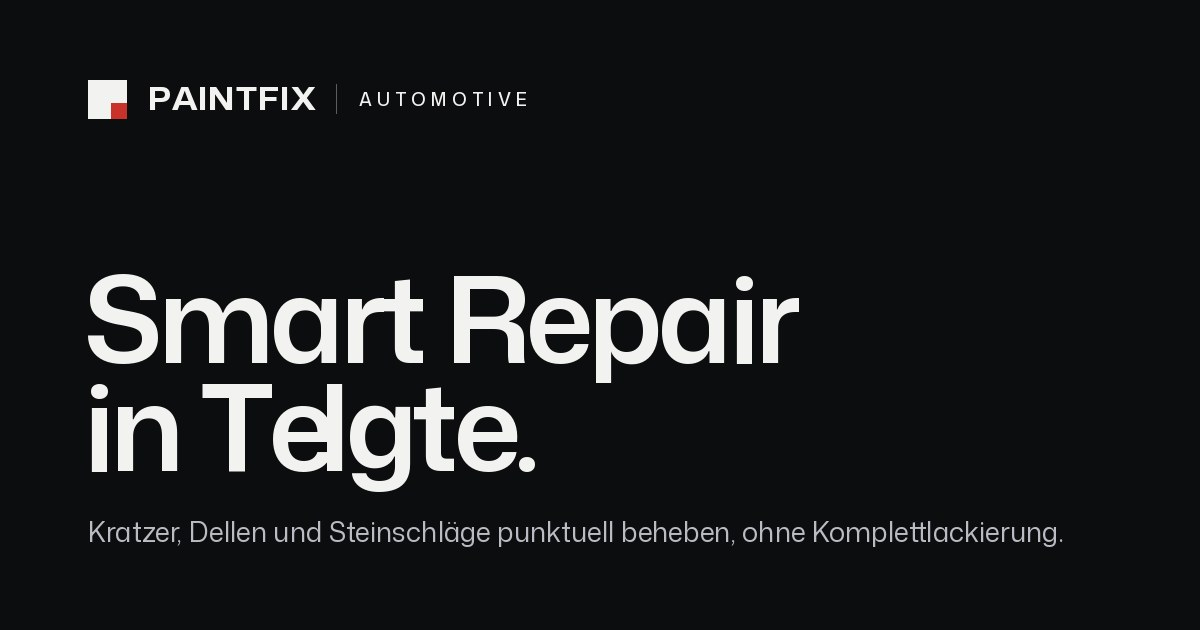
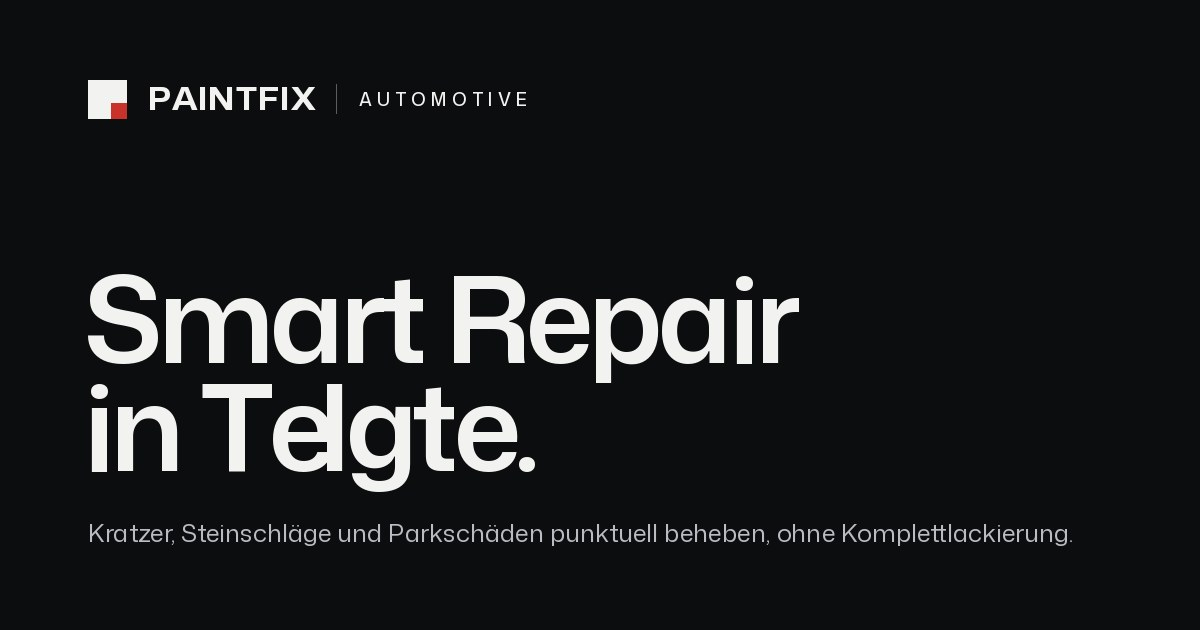
Use PaintFix's own service descriptions (24.11.2026)
- desc of all six services verbatim from PaintFix; the confirmed notes on
  sealing (extra cost) stay. "Included" lists rebuilt from the same text.
- Removed claims the descriptions do not cover: rim repair under Smart
  Repair, two-bucket wash, wheel arches, odour neutralisation, boot,
  clay bar, paint thickness measurement, masking, two ceramic coats,
  infrared curing, exterior detailing included in ceramic. Lackkorrektur
  now "reduces" instead of "removes"; ceramic lifespan 1, 2 or 3 years
  depending on the product, paint correction as needed.
- Service page drafts, Smart Repair focus text and its share image
  follow the same wording.

Claude-Session: https://claude.ai/code/session_01LGKKViHyALtNtq41SnGiB1

Changed region(s): [[0.0617, 0.8143, 0.8942, 0.8746]]

diff --git a/content/leistungen.ts b/content/leistungen.ts
@@ -17,10 +17,11 @@ import { eur } from "@/lib/format";
  * Preise und Dauer kommen aus fahrzeug.json (services, inspect), damit jeder Wert nur einmal
  * existiert.
  *
- * PLATZHALTER: Alle Texte dieser Datei sind Entwürfe von Chatifa auf Grundlage der bestehenden
- * Leistungstexte, bis PaintFix die Beschreibungen je Leistung schickt und freigibt. Sie enthalten
- * nur Angaben, die bereits auf der Website stehen; neue Fakten (Einzugsgebiet, Garantien,
- * Zertifikate) kommen erst nach Bestätigung hinzu.
+ * Fakten: Die Leistungsbeschreibungen hat PaintFix am 24.11.2026 geschickt (wörtlich als `desc` in
+ * fahrzeug.json). Die Texte dieser Datei (Einleitung, Anlässe, Ablauf, FAQ) sind Entwürfe von
+ * Chatifa auf dieser Grundlage, bis PaintFix sie freigibt. Sie enthalten keine Angaben über die
+ * Beschreibungen hinaus; neue Fakten (Einzugsgebiet, Garantien, Zertifikate, Lackschichtdicken-
+ * messung) kommen erst nach Bestätigung hinzu.
  */
 
 export type CarPageSlug =
@@ -86,10 +87,10 @@ export const carServicePages: ReadonlyArray<CarServicePage> = [
     name: "Smart Repair",
     metaTitle: "Smart Repair in Telgte bei Münster",
     metaDescription:
-      "Smart Repair in Telgte bei Münster: Kratzer, kleine Dellen, Steinschläge und Bordsteinschäden an Felgen punktuell beheben, ohne Komplettlackierung. Festpreis nach kostenloser Begutachtung.",
+      "Smart Repair in Telgte bei Münster: Kratzer, Steinschläge, kleinere Lackschäden und Parkschäden gezielt reparieren, ohne Komplettlackierung. Festpreis nach kostenloser Begutachtung.",
     h1: "Smart Repair in Telgte.",
     intro:
-      "Ein Kratzer in der Tür, eine Delle vom Parkplatz, ein Steinschlag auf der Haube: Kleine Schäden reparieren wir dort, wo sie sind, statt ganze Bauteile neu zu lackieren. Das spart Zeit und Kosten, und Ihr Fahrzeug behält so viel Originallack wie möglich.",
+      "Ein Kratzer in der Tür, ein Parkschaden an der Stoßstange, ein Steinschlag auf der Haube: Kleine Schäden reparieren wir dort, wo sie sind, statt ganze Bauteile neu zu lackieren. Das spart Zeit und Kosten, und Ihr Fahrzeug behält so viel Originallack wie möglich.",
     offers: ["smart-repair"],
     offerTitle: "Umfang und Preis",
     reasons: {
@@ -100,16 +101,16 @@ export const carServicePages: ReadonlyArray<CarServicePage> = [
           d: "Einzelne Kratzer im Lack, die mit einer Politur allein nicht verschwinden.",
         },
         {
-          t: "Kleine Dellen",
-          d: "Parkrempler und Dellen, bei denen der Lack nicht großflächig beschädigt ist.",
+          t: "Parkschäden",
+          d: "Schrammen und kleine Beschädigungen vom Parkplatz, etwa an Stoßstange oder Tür.",
         },
         {
           t: "Steinschläge",
           d: "Abplatzer an Haube und Front, bevor Feuchtigkeit darunter gelangt.",
         },
         {
-          t: "Bordsteinschäden an Felgen",
-          d: "Schrammen an der Felge, die bei jedem Blick auf das Rad auffallen.",
+          t: "Kleinere Lackschäden",
+          d: "Macken und Abplatzer, bei denen eine Lackierung des ganzen Bauteils übertrieben wäre.",
         },
       ],
     },
@@ -127,7 +128,7 @@ export const carServicePages: ReadonlyArray<CarServicePage> = [
         festpreis,
         {
           title: "Reparatur",
-          text: "Wir bearbeiten nur die beschädigte Stelle und passen den Farbton an den Originallack an.",
+          text: "Nur die beschädigte Stelle: fachgerecht schleifen, spachteln, grundieren, lackieren und anschließend polieren.",
         },
         {
           title: "Übergabe",
@@ -151,8 +152,8 @@ export const carServicePages: ReadonlyArray<CarServicePage> = [
           a: "Das hängt vom Umfang ab. Termin und Dauer nennen wir Ihnen zusammen mit dem Festpreis.",
         },
         {
-          q: "Reparieren Sie auch Felgen?",
-          a: "Ja, Bordsteinschäden an Felgen gehören zu Smart Repair.",
+          q: "Wie wird repariert?",
+          a: "Die betroffene Stelle wird fachgerecht geschliffen, gespachtelt, grundiert, lackiert und anschließend poliert. Der Rest des Bauteils bleibt im Originallack.",
         },
         {
           q: "Lohnt sich Smart Repair vor der Leasingrückgabe?",
@@ -168,10 +169,10 @@ export const carServicePages: ReadonlyArray<CarServicePage> = [
     focus: "politur",
     name: "Lackkorrektur",
     metaTitle: "Lackkorrektur in Telgte bei Münster",
-    metaDescription: `Maschinelle Lackkorrektur in Telgte bei Münster: entfernt Waschkratzer, Hologramme und matte Stellen. ${politur.dur.replace(/^ca\./, "Etwa")}, ab ${eur(politur.p[0])} Endpreis. Den Festpreis nennen wir nach einer kostenlosen Begutachtung.`,
+    metaDescription: `Lackkorrektur in Telgte bei Münster: ein-, zwei- oder dreistufige Politur gegen Kratzer, Hologramme, Waschspuren und matte Stellen, für Tiefenglanz und Farbtiefe. ${politur.dur.replace(/^ca\./, "Etwa")}, ab ${eur(politur.p[0])} Endpreis. Den Festpreis nennen wir nach einer kostenlosen Begutachtung.`,
     h1: "Lack\u00ADkorrektur in Telgte.",
     intro:
-      "Waschanlagen, falsche Tücher und Jahre auf der Straße hinterlassen feine Kratzer, die in der Sonne als Kreise und Schlieren sichtbar werden. Bei der Lackkorrektur reinigen wir den Lack gründlich und polieren ihn danach maschinell. So verschwinden die Kratzer, und der Lack bekommt seine Tiefe zurück.",
+      "Waschanlagen, falsche Tücher und Jahre auf der Straße hinterlassen feine Kratzer, die in der Sonne als Kreise und Schlieren sichtbar werden. Bei der Lackkorrektur polieren wir den Lack je nach Zustand ein-, zwei- oder dreistufig. So werden Kratzer, Hologramme und Waschspuren deutlich reduziert, und der Lack bekommt Tiefenglanz und Farbtiefe zurück.",
     offers: ["politur"],
     offerTitle: "Umfang und Preis",
     reasons: {
@@ -204,12 +205,12 @@ export const carServicePages: ReadonlyArray<CarServicePage> = [
       items: [
         {
           title: "Begutachtung",
-          text: "Wir sehen uns den Lack unter Licht an, messen die Lackschichtdicke und sagen Ihnen, was die Politur erreichen kann. Kostenlos.",
+          text: "Wir sehen uns den Lack unter Licht an und sagen Ihnen, wie viele Stufen er braucht und was die Politur erreichen kann. Kostenlos.",
         },
         festpreis,
         {
           title: "Reinigung und Politur",
-          text: "Wäsche und Dekontamination mit Reinigungsknete, Kunststoffe und Gummis abkleben, dann die maschinelle Politur.",
+          text: "Gründliche Reinigung, dann die ein-, zwei- oder dreistufige Politur, je nach Zustand des Lacks.",
         },
         {
           title: "Übergabe",
@@ -222,19 +223,19 @@ export const carServicePages: ReadonlyArray<CarServicePage> = [
       items: [
         {
           q: "Schadet eine Politur dem Lack?",
-          a: "Beim Polieren wird eine sehr dünne Schicht Klarlack abgetragen. Deshalb messen wir vorher die Lackschichtdicke und polieren nur so viel wie nötig.",
+          a: "Beim Polieren wird eine sehr dünne Schicht Klarlack abgetragen. Deshalb wählen wir die Stufe nach dem Zustand des Lacks und polieren nur so viel wie nötig.",
         },
         {
           q: "Was ist der Unterschied zwischen ein- und mehrstufiger Korrektur?",
-          a: "Die einstufige Maschinenpolitur ist im Preis enthalten und entfernt die meisten Waschkratzer und Hologramme. Bei tieferen Spuren polieren wir in mehreren Durchgängen. Das bieten wir auf Anfrage an.",
+          a: "Die einstufige Politur ist im Grundpreis enthalten und reduziert die meisten Waschspuren und Hologramme. Bei tieferen Kratzern polieren wir zwei- oder dreistufig. Das bieten wir auf Anfrage an.",
         },
         {
           q: "Brauche ich danach eine Versiegelung?",
-          a: "Nicht zwingend, aber sie schützt das Ergebnis länger vor neuen Kratzern und Umwelteinflüssen. Die Versiegelung ist nicht im Preis enthalten und kostet extra. Den längsten Schutz bietet die Keramikversiegelung, die eine Lackkorrektur bereits enthält.",
+          a: "Nicht zwingend, aber sie schützt das Ergebnis länger vor neuen Kratzern und Umwelteinflüssen. Die Versiegelung ist nicht im Preis enthalten und kostet extra. Den längsten Schutz bietet die Keramikversiegelung, zu der eine Lackkorrektur nach Bedarf gehört.",
         },
         {
           q: "Wie lange hält das Ergebnis?",
-          a: "Auspolierte Kratzer sind weg. Wie lange der Lack so bleibt, hängt von der Pflege ab: Jede Fahrt durch die Waschanlage kann neue Kratzer verursachen. Eine Handwäsche und eine Versiegelung halten das Ergebnis am längsten.",
+          a: "Was die Politur reduziert hat, kommt nicht von selbst zurück. Wie lange der Lack so bleibt, hängt von der Pflege ab: Jede Fahrt durch die Waschanlage kann neue Kratzer verursachen. Eine Handwäsche und eine Versiegelung halten das Ergebnis am längsten.",
         },
         faqAb,
       ],
@@ -280,7 +281,7 @@ export const carServicePages: ReadonlyArray<CarServicePage> = [
       items: [
         {
           title: "Begutachtung",
-          text: "Wir prüfen Lack, Felgen und Innenraum vor Ihrem Rückgabetermin. Kostenlos.",
+          text: "Wir prüfen Ihr Fahrzeug vor dem Rückgabetermin auf Kratzer, Dellen, Lackschäden und Gebrauchsspuren. Kostenlos.",
         },
         {
           title: "Festpreis",
@@ -343,7 +344,7 @@ export const carServicePages: ReadonlyArray<CarServicePage> = [
         },
         {
           t: "Innenaufbereitung",
-          d: "Wenn Polster, Kunststoffe und Kofferraum gründlich gereinigt und Gerüche beseitigt werden sollen.",
+          d: "Wenn Polster, Teppiche, Leder und Kunststoffe gründlich gereinigt und Flecken entfernt werden sollen.",
         },
         {
           t: "Komplettaufbereitung",

diff --git a/content/fahrzeug.ts b/content/fahrzeug.ts
@@ -6,9 +6,9 @@ import type { MediaId } from "./media";
  * Preise sind Platzhalter, bis PaintFix sie bestätigt (README 3).
  *
  * Schwerpunkte (Kundenwunsch 14.10.2026): Smart Repair, Lackkorrektur, Leasingrückgabe und
- * hochwertige Aufbereitung stehen auf der Startseite vorn (`focus`). Smart Repair und
- * Leasingrückgabe (`inspect`) haben noch keinen bestätigten Umfang und keine Preise: Texte und
- * Leistungslisten sind Platzhalter, bis PaintFix sie bestätigt; der Preis heißt „nach Begutachtung“.
+ * hochwertige Aufbereitung stehen auf der Startseite vorn (`focus`). Die Beschreibungen (`desc`) aller
+ * Leistungen stammen wörtlich von PaintFix (24.11.2026), die Listen (`incl`) fassen sie zusammen.
+ * Smart Repair und Leasingrückgabe (`inspect`) haben keinen Listenpreis: „nach Begutachtung“.
  */
 
 export type ServiceId = "aussen" | "innen" | "politur" | "keramik";

diff --git a/scripts/brand-assets.py b/scripts/brand-assets.py
@@ -194,7 +194,7 @@ og_av(av_en / "opengraph-image.jpg", "PaintFix Aviation at Münster Osnabrück",
 # Texte aus content/leistungen.ts (h1), fahrzeug.json (focus.short) und aviation-pages.ts (h1).
 leistungen = car / "leistungen"
 CAR_PAGES = [
-    ("smart-repair", ["Smart Repair", "in Telgte."], "Kratzer, Dellen und Steinschläge punktuell beheben, ohne Komplettlackierung."),
+    ("smart-repair", ["Smart Repair", "in Telgte."], "Kratzer, Steinschläge und Parkschäden punktuell beheben, ohne Komplettlackierung."),
     ("lackkorrektur", ["Lackkorrektur", "in Telgte."], "Waschkratzer, Hologramme und matter Lack, maschinell auspoliert."),
     ("leasingrueckgabe", ["Gut vorbereitet zur", "Leasingrückgabe."], "Schäden beheben, bevor sie bei der Rückgabe berechnet werden."),
     ("fahrzeugaufbereitung", ["Fahrzeugaufbereitung", "in Telgte."], "Außen, innen und Keramikversiegelung, mit Produkten von CarPro."),
